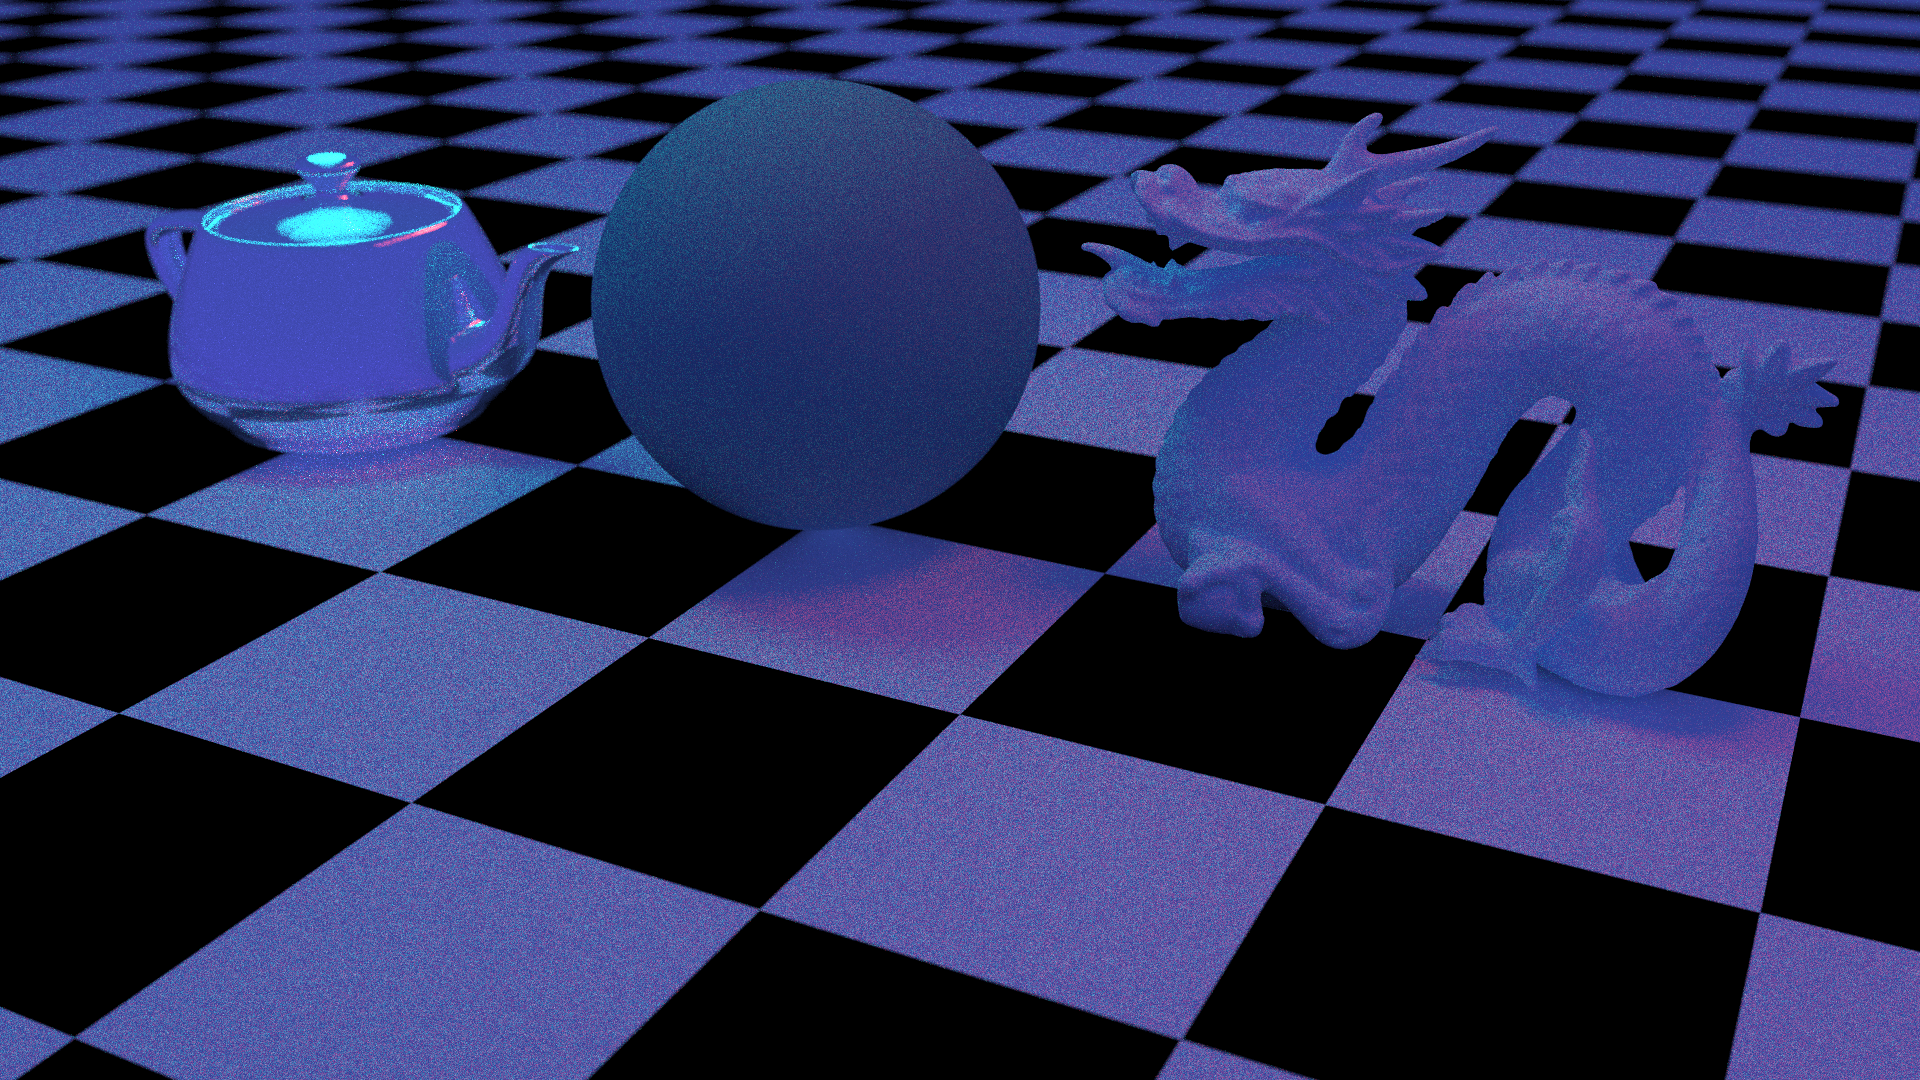
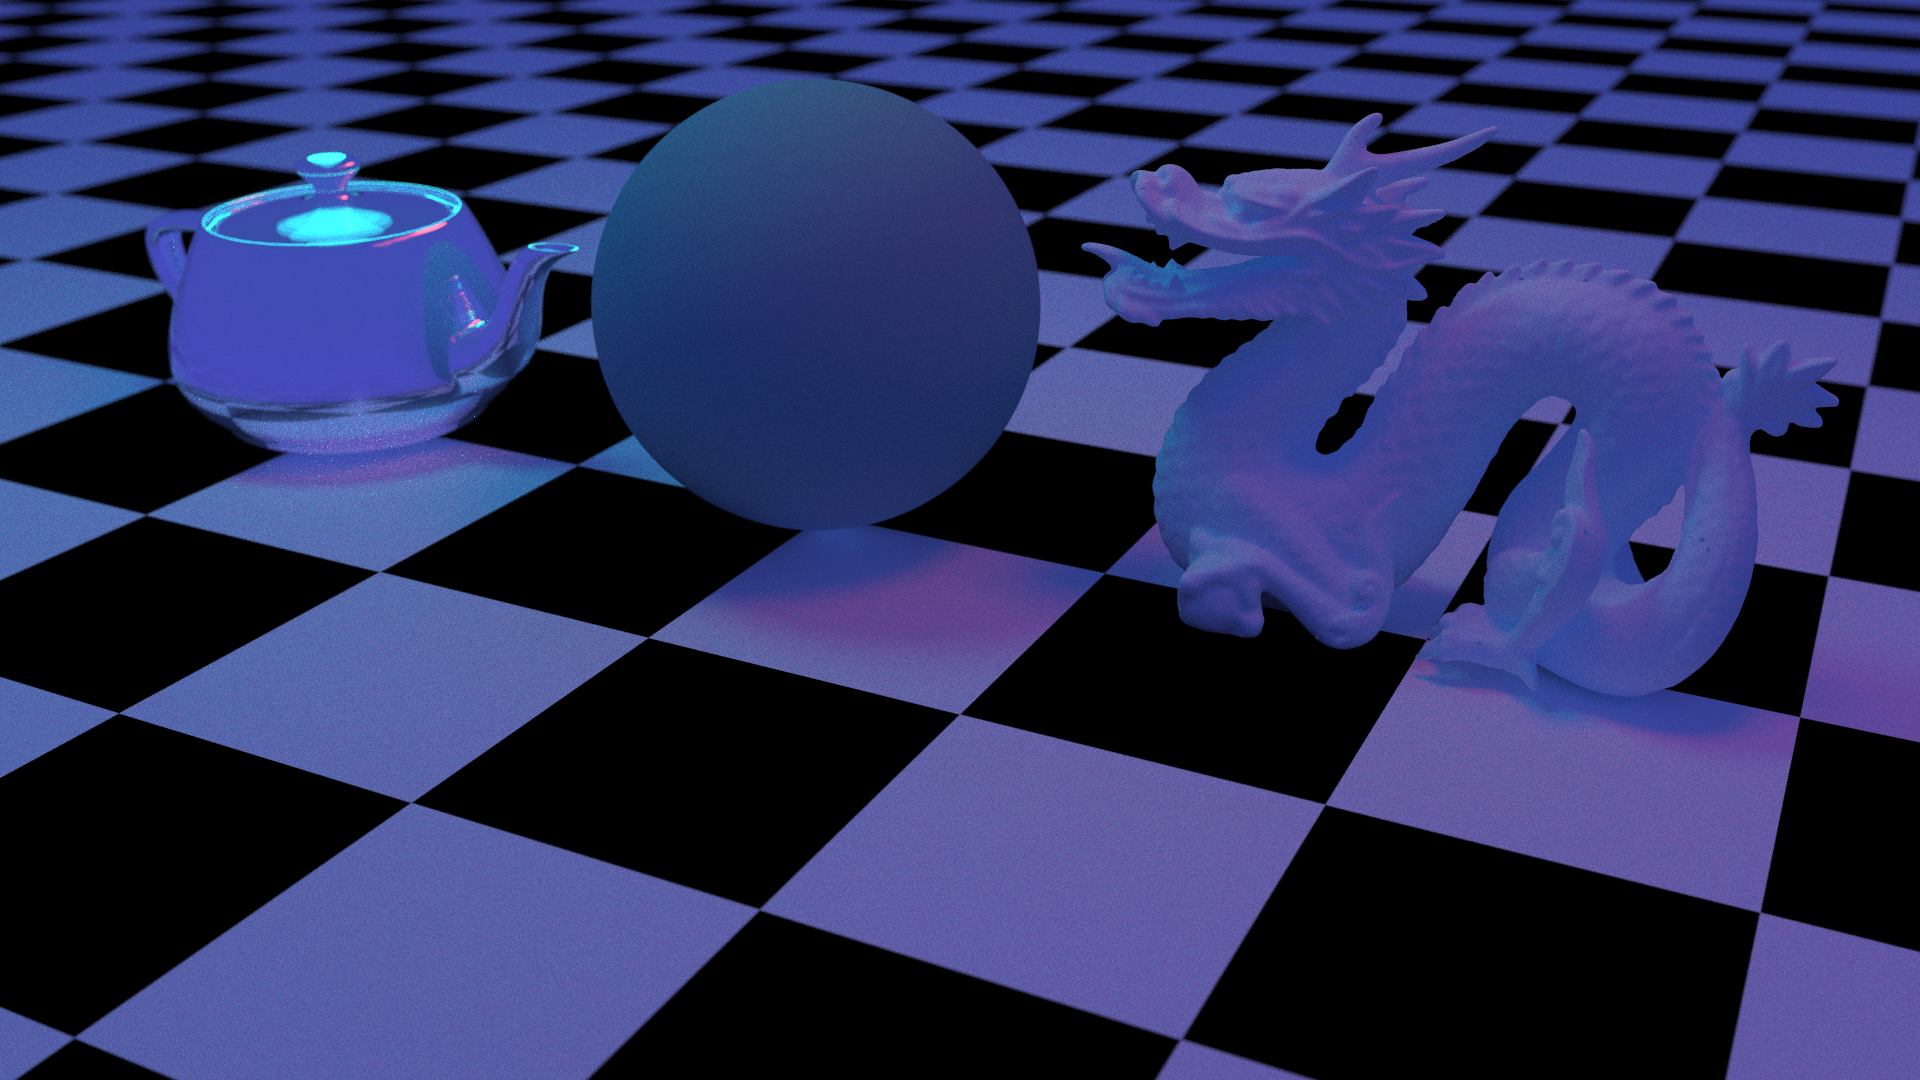
W speed?

diff --git a/src/main.rs b/src/main.rs
@@ -27,7 +27,7 @@ fn main() {
     let (width, height, samples, roulette) = if cheap {
         (320, 240, 20, 0.1)
     } else {
-        (1920, 1080, 100, 0.1)
+        (1920, 1080, 1_000, 0.1)
     };
     println!(
         "Rendering at {}x{} with {} samples per pixel and termination probability of {}",
